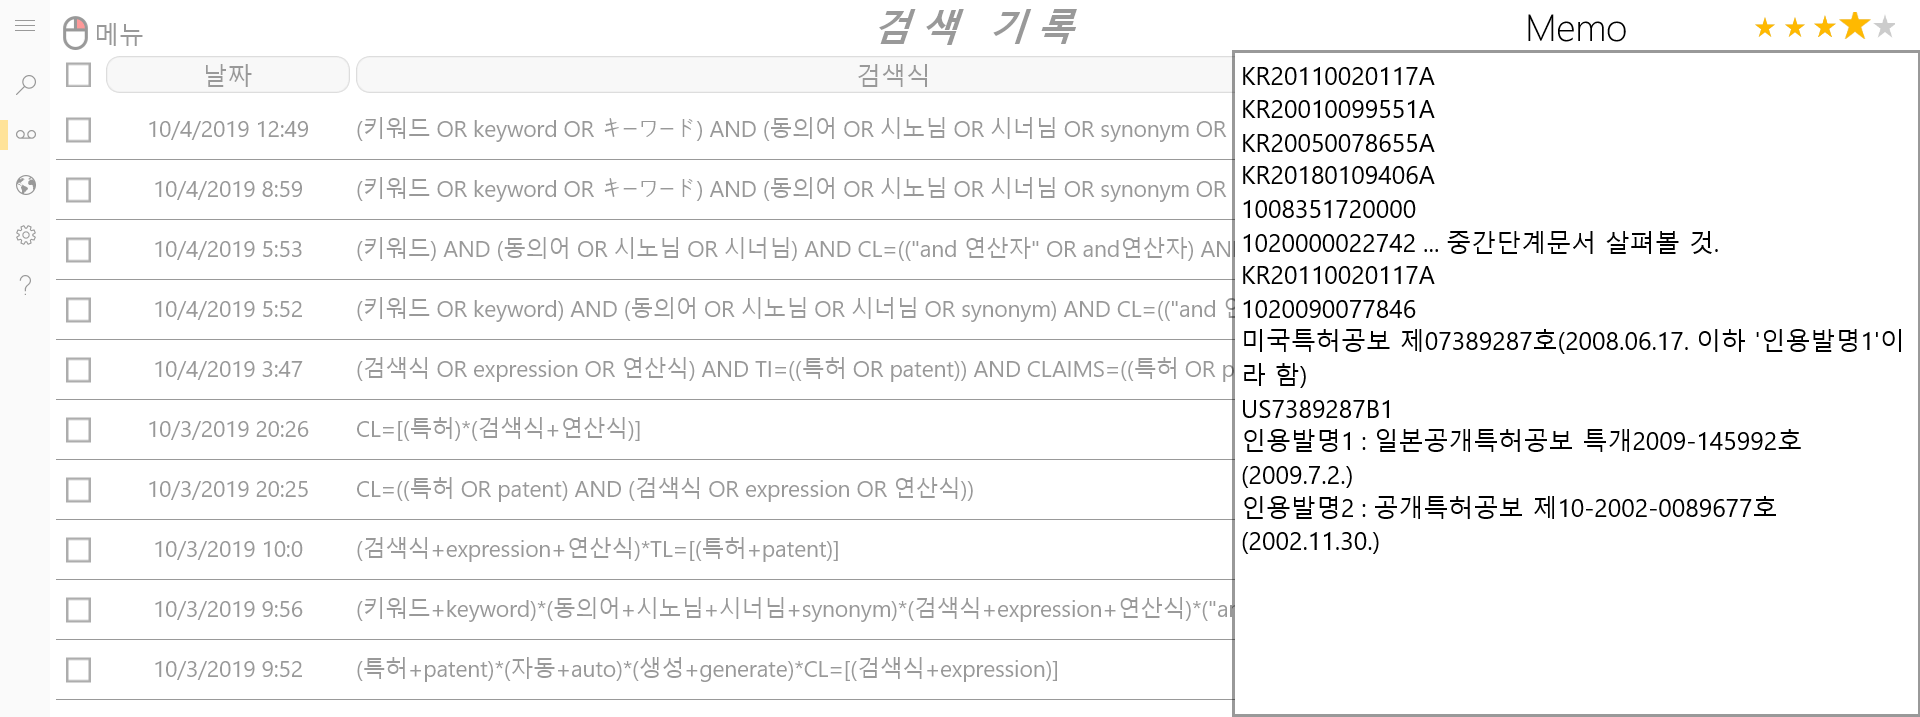
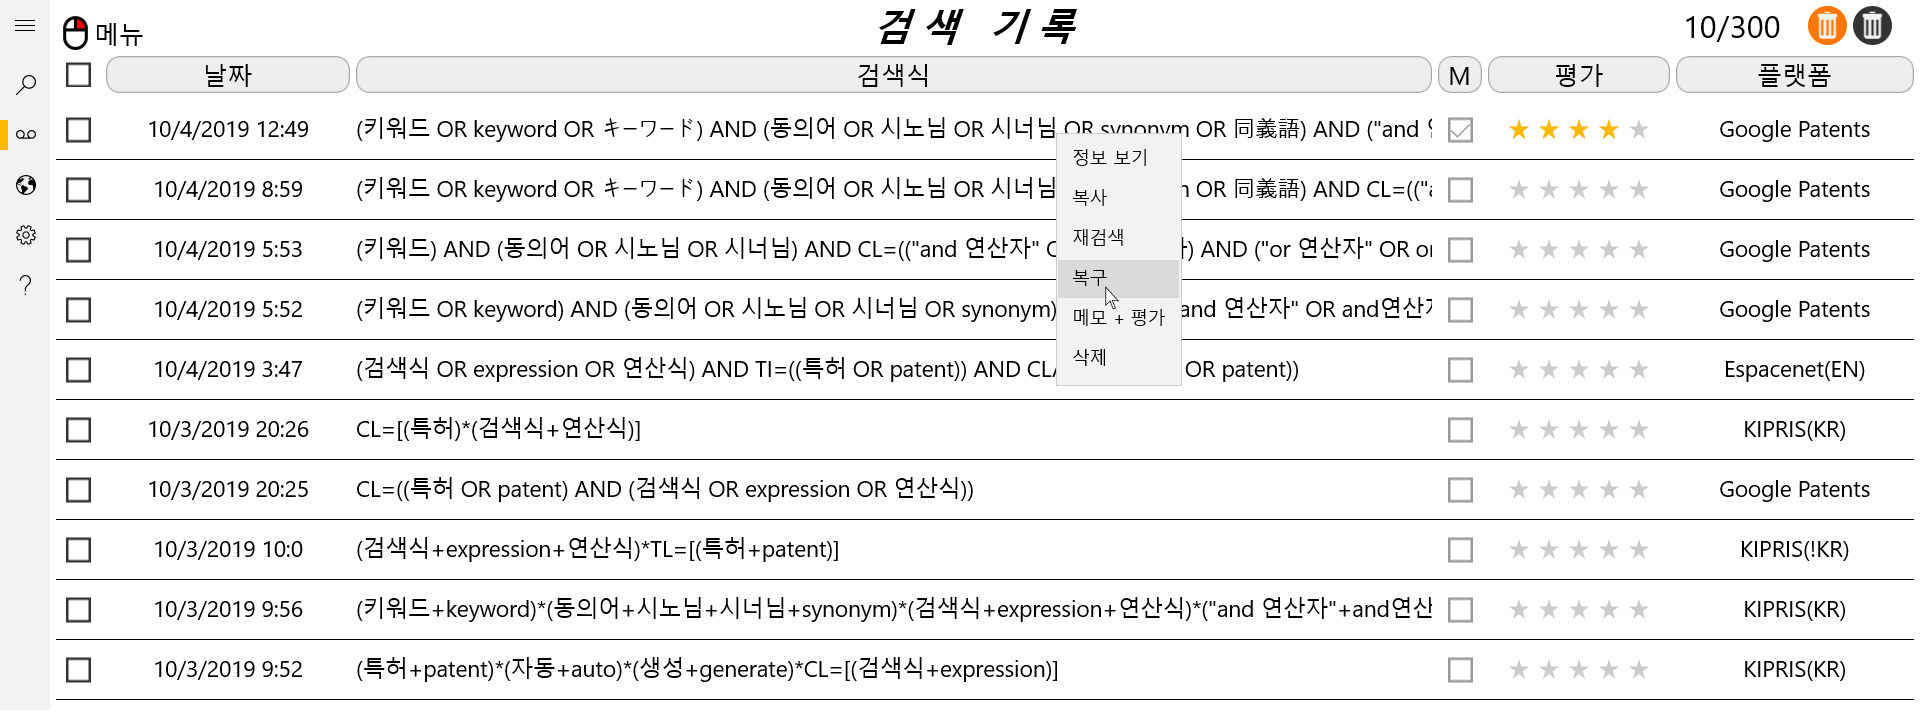
features 색션의 '향상된 검색기록' 메뉴 그림 추가

diff --git a/index.html b/index.html
@@ -184,6 +184,9 @@
               <div class="col-lg-8 mb-4">
                   <img class="img-fluid popup-img" src="img/features/4.png" alt="">
               </div>
+              <div class="col-lg-8 mb-4">
+                  <img class="img-fluid popup-img" src="img/features/5.png" alt="">
+              </div>
               <p>유사 특허가 많이 포함된 결과를 찾아내는 <b>검색식은 한 번에 만들어지지 않습니다.</b></p>
               <p>그리고 기술의 구성요소를 분리하여 검색해야 할 수도 있습니다.</p>
               <p><b>[CCPatents]</b>는 <b>검색식을 자동으로 저장</b>할 수 있고, 각 검색식 마다 <b>[메모]</b> 및 <b>[평가]</b>할 수 있는 기능을 제공합니다.</p>
